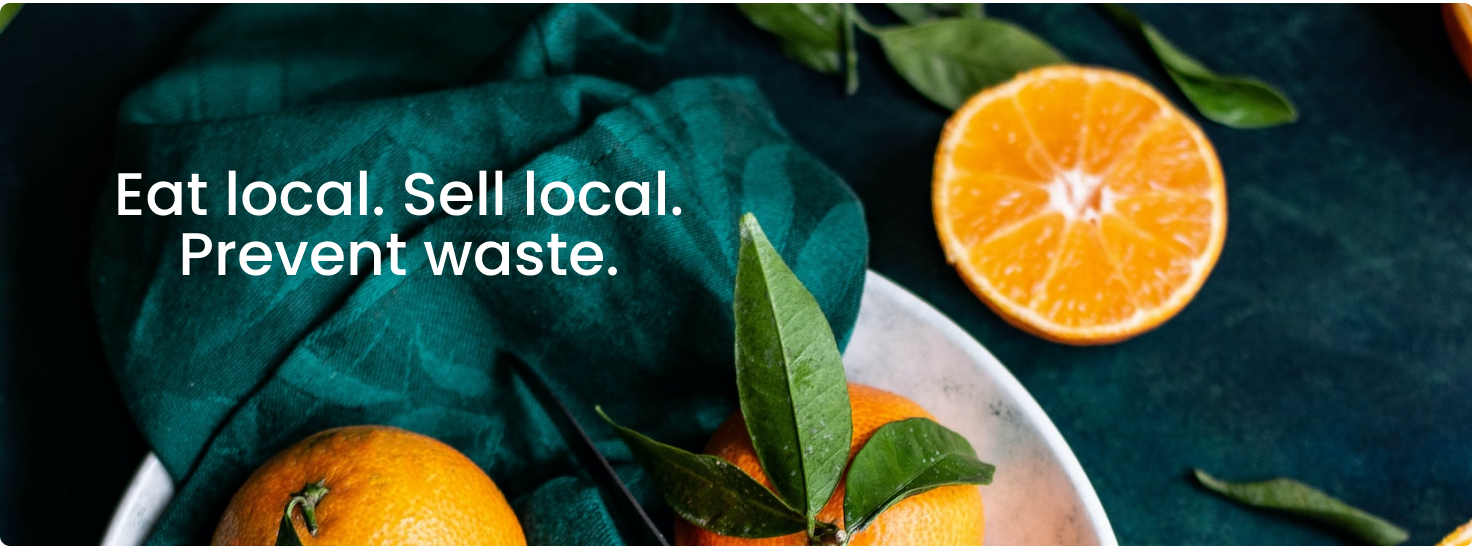
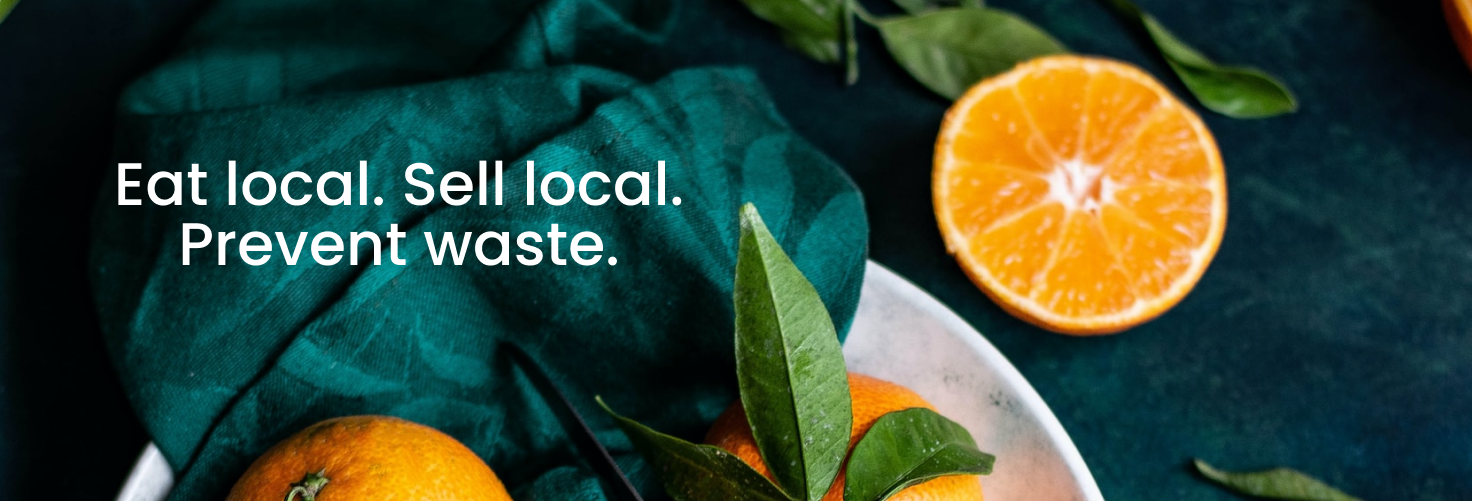
css fixes

diff --git a/components/FindingLocalSection.js b/components/FindingLocalSection.js
@@ -1,13 +1,24 @@
-import SubscribeButton from "../components/SubscribeButton"
-
+import SubscribeButton from "../components/SubscribeButton";
+import {GiStrawberry, GiGrapes} from "react-icons/gi";
+import{FaCarrot} from "react-icons/fa";
+import {TbCircle1, TbCircle2, TbCircle3 } from "react-icons/tb";
 function FindingLocalSection(){
     return(
-        <div className="flex-grow grid grid-cols-3 h-50 text-white text-center text-2xl">
+        <div className="flex-grow grid grid-cols-3 h-50 text-white text-center text-2xl font-Poppins">
         <div className="bg-blueGreenCustom place-content-center py-52 ">
         <p> Finding Local Produce is Easy</p>
         </div>
-        <div className="bg-Orange py-52">
-        <p>1. Sign Up 2.Select Preferences 3.Enjoy Produce  </p></div>
+        <div className="bg-Orange py-52 ">
+        
+        <TbCircle1 className="inline"/>
+        <p> Sign Up   </p>
+        <TbCircle2 className="inline"/>
+        
+        <p> Select Preferences</p>
+        <TbCircle3 className="inline-block"/>
+      
+        <p> Enjoy Produce</p>
+        </div>
         <div className="bg-anotherGreen py-52"> <p> Every week you get alerted about new available produce, based on your preferences, sent right to your inbox.</p>
         <div> </div>
         <SubscribeButton className="bg-Sage"/> </div>
@@ -15,3 +26,5 @@ function FindingLocalSection(){
     );
 }
 export default FindingLocalSection
+
+/* 2.Select Preferences 3.Enjoy Produce*/ 

diff --git a/components/MainContent.js b/components/MainContent.js
@@ -3,7 +3,7 @@ import Image from "next/image";
 import Link from 'next/link';
 function MainContent(){
     return(
-        <main className="max-w-7xl mx-auto px-8 sm:px-16">
+        <main className="max-w-7xl mx-auto px-8 sm:px-16 font-Poppins">
         <section className="pt-6">
           <h2 className="text-4xl font-semibold pb-5 text-center text-cyan-800"> Explore Produce </h2>
       <div className="grid grid-cols-1 sm:grid-cols-2 lg:grid-cols-3 xl:grid-cols-5">

diff --git a/components/Banner.js b/components/Banner.js
@@ -1,7 +1,7 @@
 import Image from "next/image";
 function Banner(){
     return(
-        <div className="relative h-[300px] sm:h-[400px] lg:h-[500px] xl:h-[600px] 2xl:h-[700px]">
+        <div className="relative h-[300px] sm:h-[400px] lg:h-[500px] xl:h-[600px] 2xl:h-[700px] p-0">
          <Image alt="BannerPhoto" src="/images/HeaderImage.png" fill style={{objectFit:"contain" ,objectPosition:"center"}}/>
         </div>
     )

diff --git a/components/Footer.js b/components/Footer.js
@@ -1,7 +1,7 @@
 
 function Footer() {
   return (
-    <div className="bg-closecropgreen">
+    <div className="bg-nearBlack">
     <div className="max-w-2xl mx-auto text-white py-10">
         <div className="text-center">
             <h3 className="text-3xl mb-3 text-white"> FAQ </h3>
